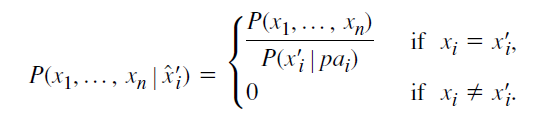
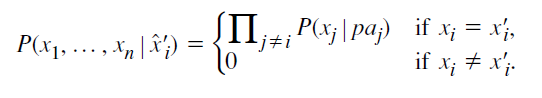
Site updated: 2019-11-15 11:08:26

Changed region(s): [[0.0295, 0.0918, 0.9742, 0.9184], [0.738, 0.5204, 0.9742, 0.8878]]

diff --git a/2019/11/06/causality-3/index.html b/2019/11/06/causality-3/index.html
@@ -89,7 +89,8 @@
 <meta property="og:locale" content="zh-Hans">
 <meta property="og:image" content="http://yoursite.com/2019/11/06/causality-3/1.png">
 <meta property="og:image" content="http://yoursite.com/2019/11/06/causality-3/2.png">
-<meta property="og:updated_time" content="2019-11-14T08:37:29.955Z">
+<meta property="og:image" content="http://yoursite.com/2019/11/06/causality-3/3.png">
+<meta property="og:updated_time" content="2019-11-15T03:08:16.277Z">
 <meta name="twitter:card" content="summary">
 <meta name="twitter:title" content="《causality》读书笔记 Ⅲ：使用因果图识别因果效应">
 <meta name="twitter:description" content="简介在前一章中我们解决了怎样从原始数据中学习发现因果关系的问题，而很多领域中，人类已经有多年的研究历史，可以给出可靠的先验知识。我们接下来就将探索，在有数据和定性的因果假设相结合的情况下，如何推断出这些因果关系。 因果推理的知识允许我们去预测在一个假设的介入下，系统会做出怎样的反应。本章中将用因果图的形式，对介入给出一个形式化的语义概念。我们将看到，只要数据可以假设被一个无环的、没有隐变量的因果图">
@@ -398,6 +399,22 @@
 <p><img src="1.png" alt="1"></p>
 <p>上下同乘$P(x_i’|pa_i)$,可以化简为更简洁的形式，</p>
 <p><img src="2.png" alt="2"></p>
+<p>进一步对$P(x’_i|pa_i)$进行分解，可以得到下式，</p>
+<p><img src="3.png" alt="3"></p>
+<p>借助上式，我们可以估计$do(x_i)$对任意与$X_i \bigcup PA_i$不相交的变量集Y的因果影响，只要让上式对所有除$Y \bigcup X_i$外的变量求和即可。这样便可以得到一个求解直接影响的定理。</p>
+<blockquote>
+<p><strong>定理：Adjustment for Direct Causes</strong><br>$PA_i$代表变量$X_i$的直接原因，Y是任意与${X_i\bigcup PA_i}$不相交的变量集合，那么介入do$(X_i=x’<em>i)$对Y的影响等于下式：<br>$$P(y|do(x’_i))=\sum</em>{pa_i}P(y|x_i,pa_i)P(pa_i)$$<br>其中，$P(y|x_i,pa_i)$和$P(pa_i)$代表介入前的概率分布。</p>
+</blockquote>
+<p>上式通过调节$X_i$的双亲结点$PA_i$，并根据$PA_i=pa_i$的概率计算加权平均，最终得到对Y的影响，注意到通过这种方式，我们所需要的信息可以只是可以直接观测到的干预前的信息。</p>
+<p>我们可选择的介入方式还可以进一步拓展，我们可以对一组变量集合$S$而不是单个变量进行修改，也可以不局限于用定值而用新的函数关系代替。</p>
+<h3 id="介入的可识别性"><a href="#介入的可识别性" class="headerlink" title="介入的可识别性"></a>介入的可识别性</h3><p>往往我们得到的非实验数据只能告诉我们变量的概率分布，而一个相同的概率分布可能可以兼容多个不同的因果模型，因此我们希望找到那些我们不用知道模型的全部细节信息就可以判断的因果量，这些因果量要在所有可能符合给定概率分布的模型中都相等，我们称这些因果量是可识别的。</p>
+<blockquote>
+<p><strong>定义：因果影响的可识别性</strong><br>对一个给定的因果图G和G中变量的一个任意的概率分布P，X和Y是G中的两个不相交变量集，当下述情况可以满足时，我们称X对Y的因果影响是可识别的：<br>对每一对满足$G(M_1)=G(M_2)=G$和$P_{M_1}(v)=P_{M_2}(v)&gt;0$的模型$M_1$和$M_2$,都有$P_{M_1}(y|do(x))=P_{M_2}{y|do(x)}$。</p>
+</blockquote>
+<p>如果P(y|do(x))是可识别的，那我们可以保证X对Y的因果影响可以从下面两个来源的信息中得到：</p>
+<p>(1).被动观测得到的概率函数P(v)</p>
+<p>(2).因果图G,指出了哪些变量是决定某一个变量的直接原因。</p>
+<h2 id="控制干扰因子"><a href="#控制干扰因子" class="headerlink" title="控制干扰因子"></a>控制干扰因子</h2><p>当我们想要去计算X对Y的因果影响时，我们首先要解决要控制哪些其他的变量因素(Z)的问题，这些变量被称为”covariates”(协变量)、”concomitants”(伴随变量)或者”confounders”(干扰因子)。关于Z的调节意味着将数据分成相对于Z的不同子集，每个子集中数据在Z中变量上的取值相等，然后在不同子集上分别计算X对Y的影响，最后再计算平均结果。</p>
 
       
     </div>
@@ -606,7 +623,7 @@
             
 
             
-              <div class="post-toc-content"><ol class="nav"><li class="nav-item nav-level-2"><a class="nav-link" href="#简介"><span class="nav-number">1.</span> <span class="nav-text">简介</span></a></li><li class="nav-item nav-level-2"><a class="nav-link" href="#马尔科夫模型中的介入"><span class="nav-number">2.</span> <span class="nav-text">马尔科夫模型中的介入</span></a><ol class="nav-child"><li class="nav-item nav-level-3"><a class="nav-link" href="#介入的表达"><span class="nav-number">2.1.</span> <span class="nav-text">介入的表达</span></a></li><li class="nav-item nav-level-3"><a class="nav-link" href="#介入的计算"><span class="nav-number">2.2.</span> <span class="nav-text">介入的计算</span></a></li></ol></li></ol></div>
+              <div class="post-toc-content"><ol class="nav"><li class="nav-item nav-level-2"><a class="nav-link" href="#简介"><span class="nav-number">1.</span> <span class="nav-text">简介</span></a></li><li class="nav-item nav-level-2"><a class="nav-link" href="#马尔科夫模型中的介入"><span class="nav-number">2.</span> <span class="nav-text">马尔科夫模型中的介入</span></a><ol class="nav-child"><li class="nav-item nav-level-3"><a class="nav-link" href="#介入的表达"><span class="nav-number">2.1.</span> <span class="nav-text">介入的表达</span></a></li><li class="nav-item nav-level-3"><a class="nav-link" href="#介入的计算"><span class="nav-number">2.2.</span> <span class="nav-text">介入的计算</span></a></li><li class="nav-item nav-level-3"><a class="nav-link" href="#介入的可识别性"><span class="nav-number">2.3.</span> <span class="nav-text">介入的可识别性</span></a></li></ol></li><li class="nav-item nav-level-2"><a class="nav-link" href="#控制干扰因子"><span class="nav-number">3.</span> <span class="nav-text">控制干扰因子</span></a></li></ol></div>
             
 
           </div>
